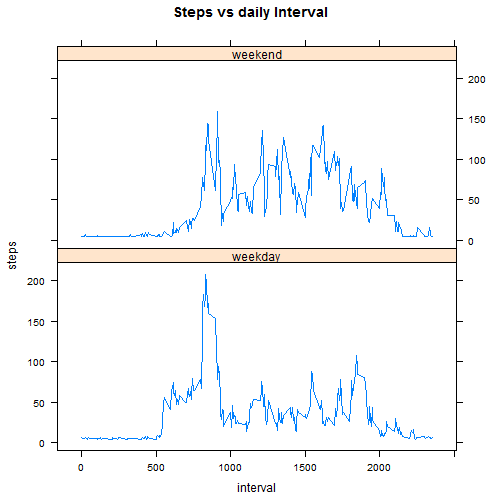
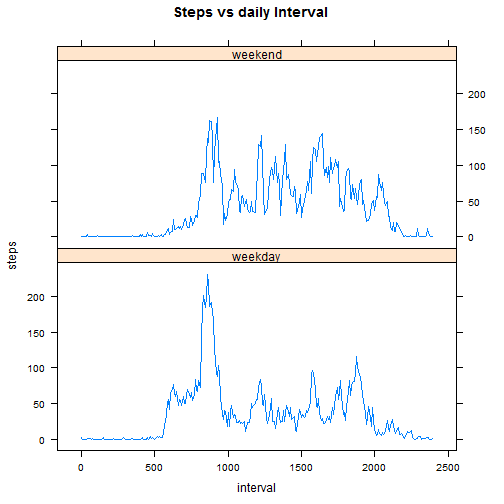
redo intervals

diff --git a/repdata-006/peerAssesments/peer1/PA1_template.html b/repdata-006/peerAssesments/peer1/PA1_template.html
@@ -205,7 +205,8 @@ hr {
 <li>Read data &amp; print histogram</li>
 </ol>
 
-<pre><code class="r">setwd(&quot;~/R/coursera/repdata-006/peerAssesments/peer1&quot;)
+<pre><code class="r"># setwd(&quot;~/R/coursera/repdata-006/peerAssesments/peer1&quot;)
+# https://github.com/rdpeng/RepData_PeerAssessment1
 act.na=read.csv(&quot;./figure/activity.csv&quot;)
 act=na.omit(act.na)
 uday=unique(as.character(act[,2]))
@@ -224,29 +225,28 @@ The median number of steps is: 1.0765 &times; 10<sup>4</sup></p></li>
 <li><p>plot time series 5-minute intervals</p></li>
 </ol>
 
-<pre><code class="r">intervals=data.frame(interval=0,day_means=0)
-for(ii in seq(0,55,5)){intervals[(ii/5+1),2]=mean(subset(act,act[,3]%%100==ii,1)[,1])
-                       intervals[(ii/5+1),1]=ii}
-
-plot(intervals[,1],intervals[,2],type=&quot;l&quot;,
-     main=&quot;Average Steps vs Intervals&quot;,
-     xlab=&quot;interval&quot;,ylab=&quot;average steps&quot;)
+<pre><code class="r">df=data.frame(steps=act[,1],interval=act[,3])
+intervals &lt;- aggregate(steps~interval,data=df,mean)
+intervals[,1] &lt;- (intervals[,1]%/%100+(intervals[,1]%%100)/60)*100
+plot(intervals$interval,intervals$steps,type=&quot;l&quot;,
+      main=&quot;Average Steps vs Intervals&quot;,
+      xlab=&quot;interval&quot;,ylab=&quot;average steps&quot;)
 </code></pre>
 
[2 lines of base64/hex data omitted]
 
 <ol>
-<li><p>The maximum 5-min step interval is: 15.</p></li>
+<li><p>The maximum 5-min step interval is: 858.3333.</p></li>
 <li><p>The number of missing data are: 2304.</p></li>
 <li><p>The strategy is to use the intervals averages for missing rows.</p></li>
 <li><p>make new data set and fill missing values</p></li>
 </ol>
 
 <pre><code class="r">my_sdiff=setdiff(act.na[,2],act[,2])
-af=act.na
+af=act.na; intervals[,1]=af[1:288,3]
 for(na.date in my_sdiff){
   for(int_val in act[1:288,3]){
-    af[af[,2]==na.date&amp;af[,3]==int_val,1] = intervals[intervals[,1]==int_val%%100,2]
+    af[af[,2]==na.date&amp;af[,3]==int_val,1] = intervals[intervals[,1]==int_val,2]
   }}
 </code></pre>
 
@@ -268,8 +268,9 @@ hist(pday2[,1],main=&quot;Frequency vs Steps/day filled array&quot;,xlab=&quot;S
 <li>impact of missing data?</li>
 </ol>
 
-<p>difference in means 1411.9592
-difference in meadians 370</p>
+<p>The difference in means 1411.9592</p>
+
+<p>The difference in meadians 370</p>
 
 <ol>
 <li>make weekday and weekend column</li>
@@ -285,11 +286,13 @@ af=cbind(af,xday)
 </ol>
 
 <pre><code class="r">imeans =aggregate(steps~interval+xday,data=af,mean)
+imeans[,1] &lt;- (imeans[,1]%/%100+(imeans[,1]%%100)/60)*100
+
 library(lattice)
 xyplot(steps ~ interval|xday, data=imeans,layout=c(1,2),type=&quot;l&quot;,main=&quot;Steps vs daily Interval&quot;)
 </code></pre>
 
[2 lines of base64/hex data omitted]
 
 <ol>
 <li>upload PA1_template.Rmd to github</li>

diff --git a/repdata-006/peerAssesments/peer1/PA1_template.md b/repdata-006/peerAssesments/peer1/PA1_template.md
@@ -9,7 +9,8 @@ output: html_document
 
 
 ```r
-setwd("~/R/coursera/repdata-006/peerAssesments/peer1")
+# setwd("~/R/coursera/repdata-006/peerAssesments/peer1")
+# https://github.com/rdpeng/RepData_PeerAssessment1
 act.na=read.csv("./figure/activity.csv")
 act=na.omit(act.na)
 uday=unique(as.character(act[,2]))
@@ -29,18 +30,17 @@ hist(pday[,1],main="Frequency vs Steps/day",xlab="Steps per day")
 3. plot time series 5-minute intervals
 
 ```r
-intervals=data.frame(interval=0,day_means=0)
-for(ii in seq(0,55,5)){intervals[(ii/5+1),2]=mean(subset(act,act[,3]%%100==ii,1)[,1])
-                       intervals[(ii/5+1),1]=ii}
-
-plot(intervals[,1],intervals[,2],type="l",
-     main="Average Steps vs Intervals",
-     xlab="interval",ylab="average steps")
+df=data.frame(steps=act[,1],interval=act[,3])
+intervals <- aggregate(steps~interval,data=df,mean)
+intervals[,1] <- (intervals[,1]%/%100+(intervals[,1]%%100)/60)*100
+plot(intervals$interval,intervals$steps,type="l",
+      main="Average Steps vs Intervals",
+      xlab="interval",ylab="average steps")
 ```
 
 ![plot of chunk unnamed-chunk-2](figure/unnamed-chunk-2.png) 
 
-4. The maximum 5-min step interval is: 15.
+4. The maximum 5-min step interval is: 858.3333.
 
 5. The number of missing data are: 2304.
 
@@ -50,10 +50,10 @@ plot(intervals[,1],intervals[,2],type="l",
 
 ```r
 my_sdiff=setdiff(act.na[,2],act[,2])
-af=act.na
+af=act.na; intervals[,1]=af[1:288,3]
 for(na.date in my_sdiff){
   for(int_val in act[1:288,3]){
-    af[af[,2]==na.date&af[,3]==int_val,1] = intervals[intervals[,1]==int_val%%100,2]
+    af[af[,2]==na.date&af[,3]==int_val,1] = intervals[intervals[,1]==int_val,2]
   }}
 ```
 8. make histogram with new filled data set
@@ -71,8 +71,9 @@ hist(pday2[,1],main="Frequency vs Steps/day filled array",xlab="Steps per day")
 
 9. impact of missing data?
 
-difference in means 1411.9592
-difference in meadians 370
+The difference in means 1411.9592
+
+The difference in meadians 370
 
 10. make weekday and weekend column
 
@@ -85,6 +86,8 @@ af=cbind(af,xday)
 
 ```r
 imeans =aggregate(steps~interval+xday,data=af,mean)
+imeans[,1] <- (imeans[,1]%/%100+(imeans[,1]%%100)/60)*100
+
 library(lattice)
 xyplot(steps ~ interval|xday, data=imeans,layout=c(1,2),type="l",main="Steps vs daily Interval")
 ```
